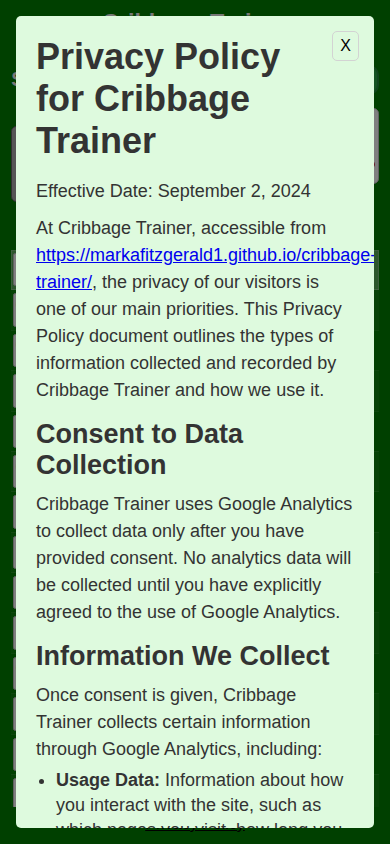
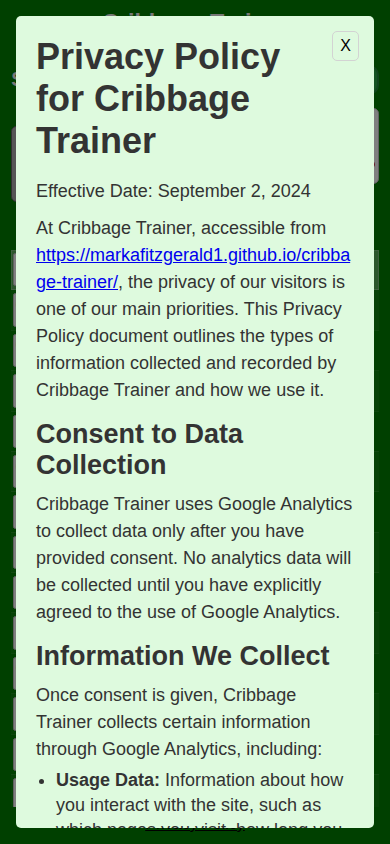
style: wrap long URLs in privacy policy modal
Enable overflow-wrap: break-word on anchor links in the privacy policy to prevent horizontal layout overflow on narrow viewports, and update visual screenshot baselines.

Requested-By: Mark Fitzgerald <[email redacted]>

Changed region(s): [[0.0923, 0.2773, 0.9538, 0.3697]]

diff --git a/src/ui-react/PrivacyPolicy.module.css b/src/ui-react/PrivacyPolicy.module.css
@@ -35,3 +35,7 @@
   margin-bottom: 5px;
   line-height: 1.4;
 }
+
+.privacy-policy a {
+  overflow-wrap: break-word;
+}